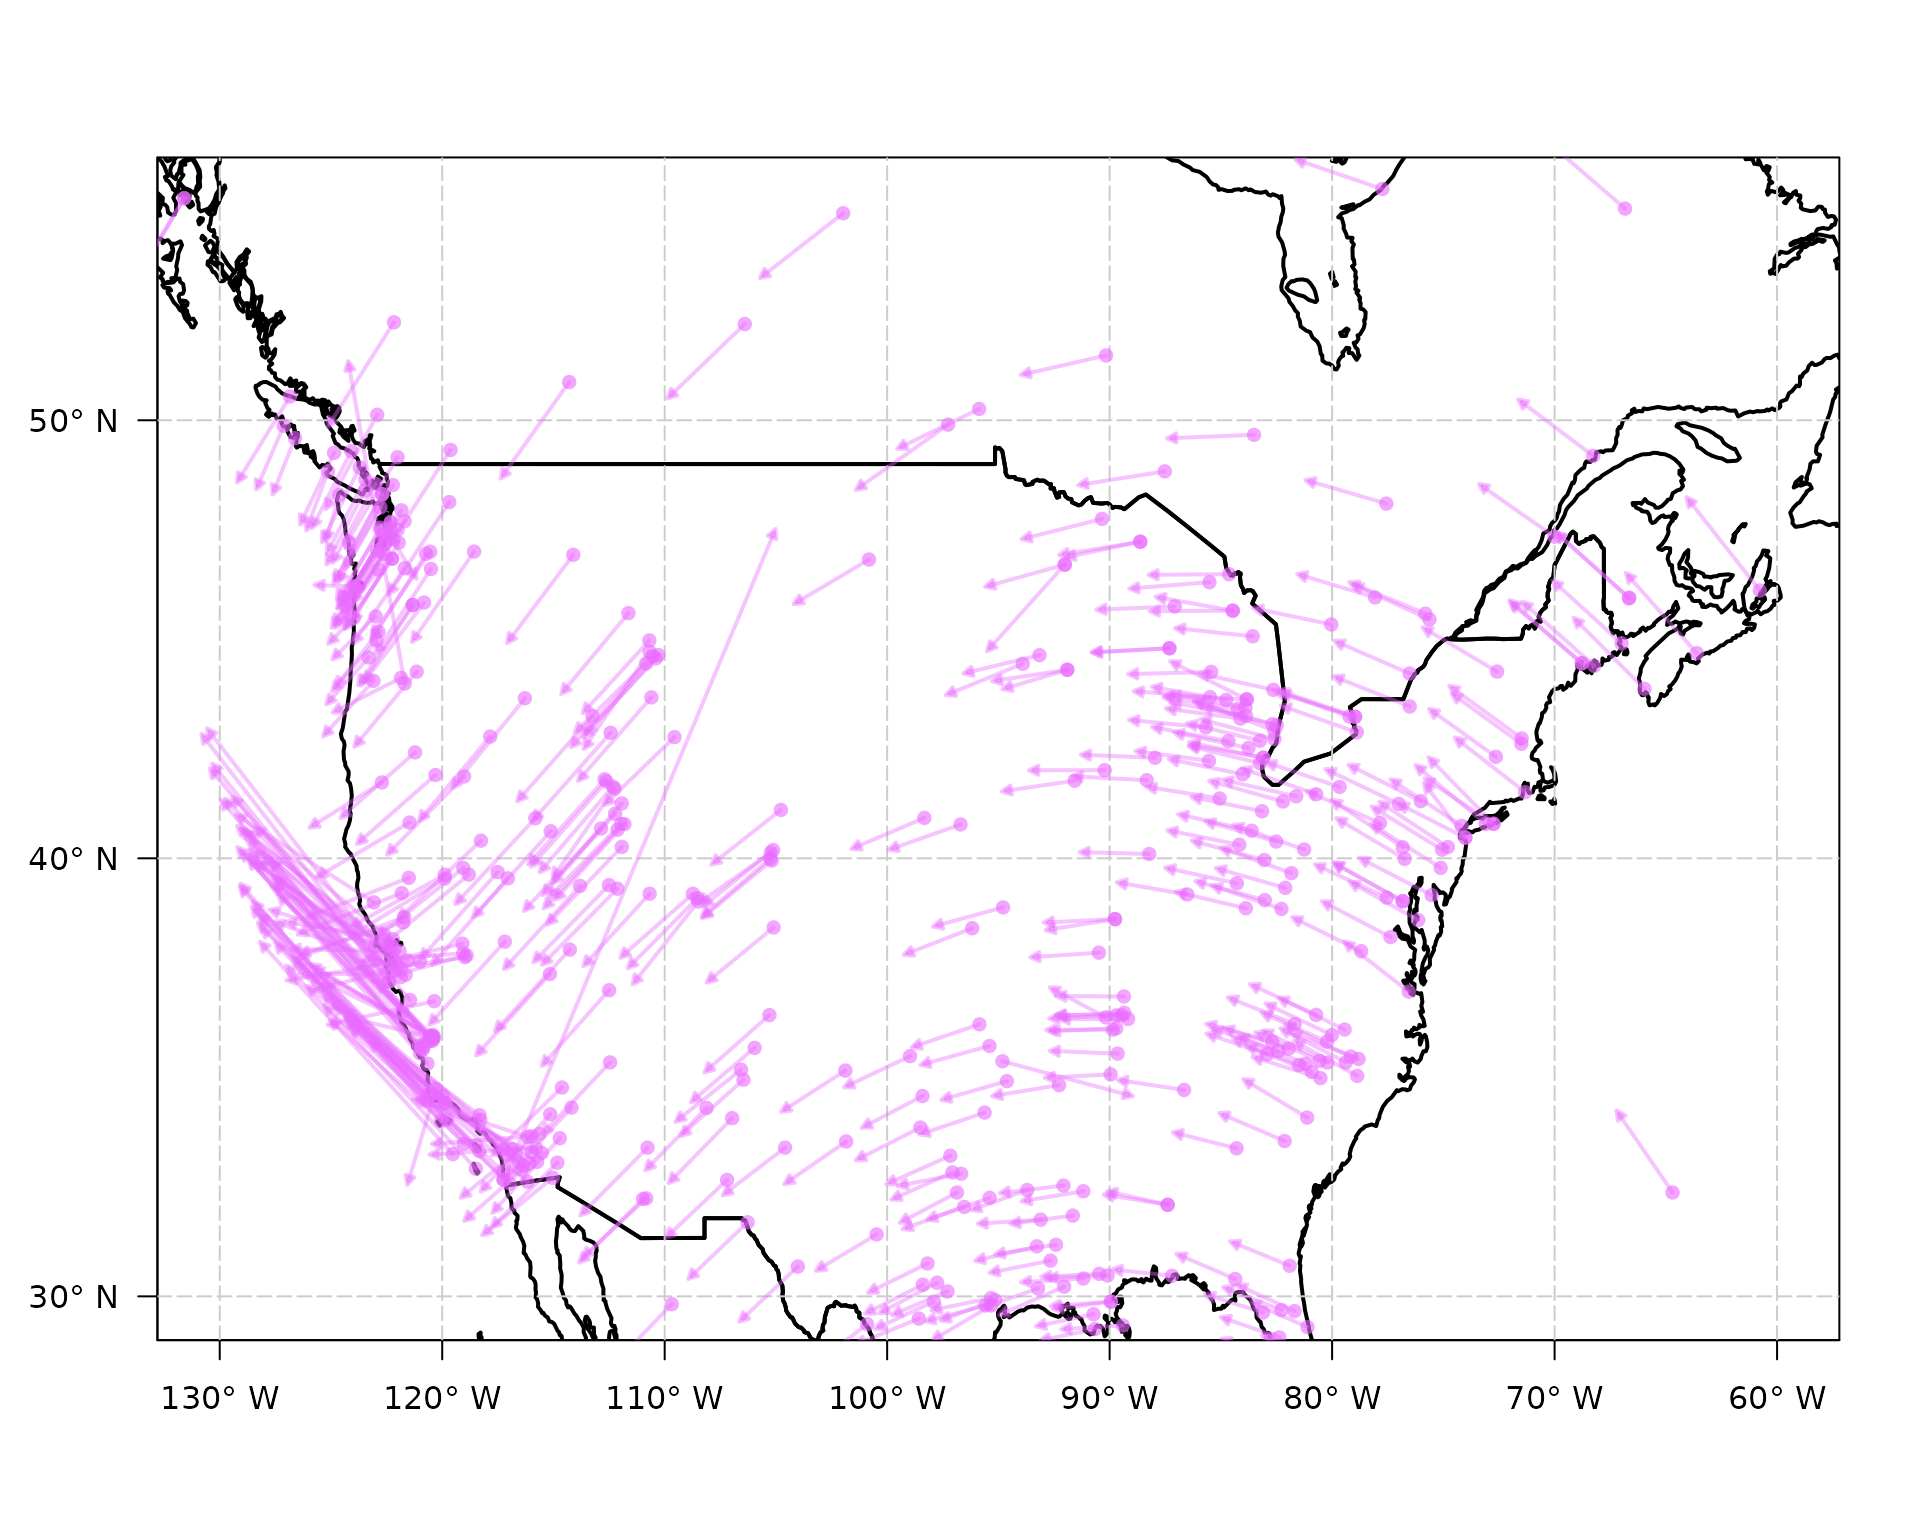
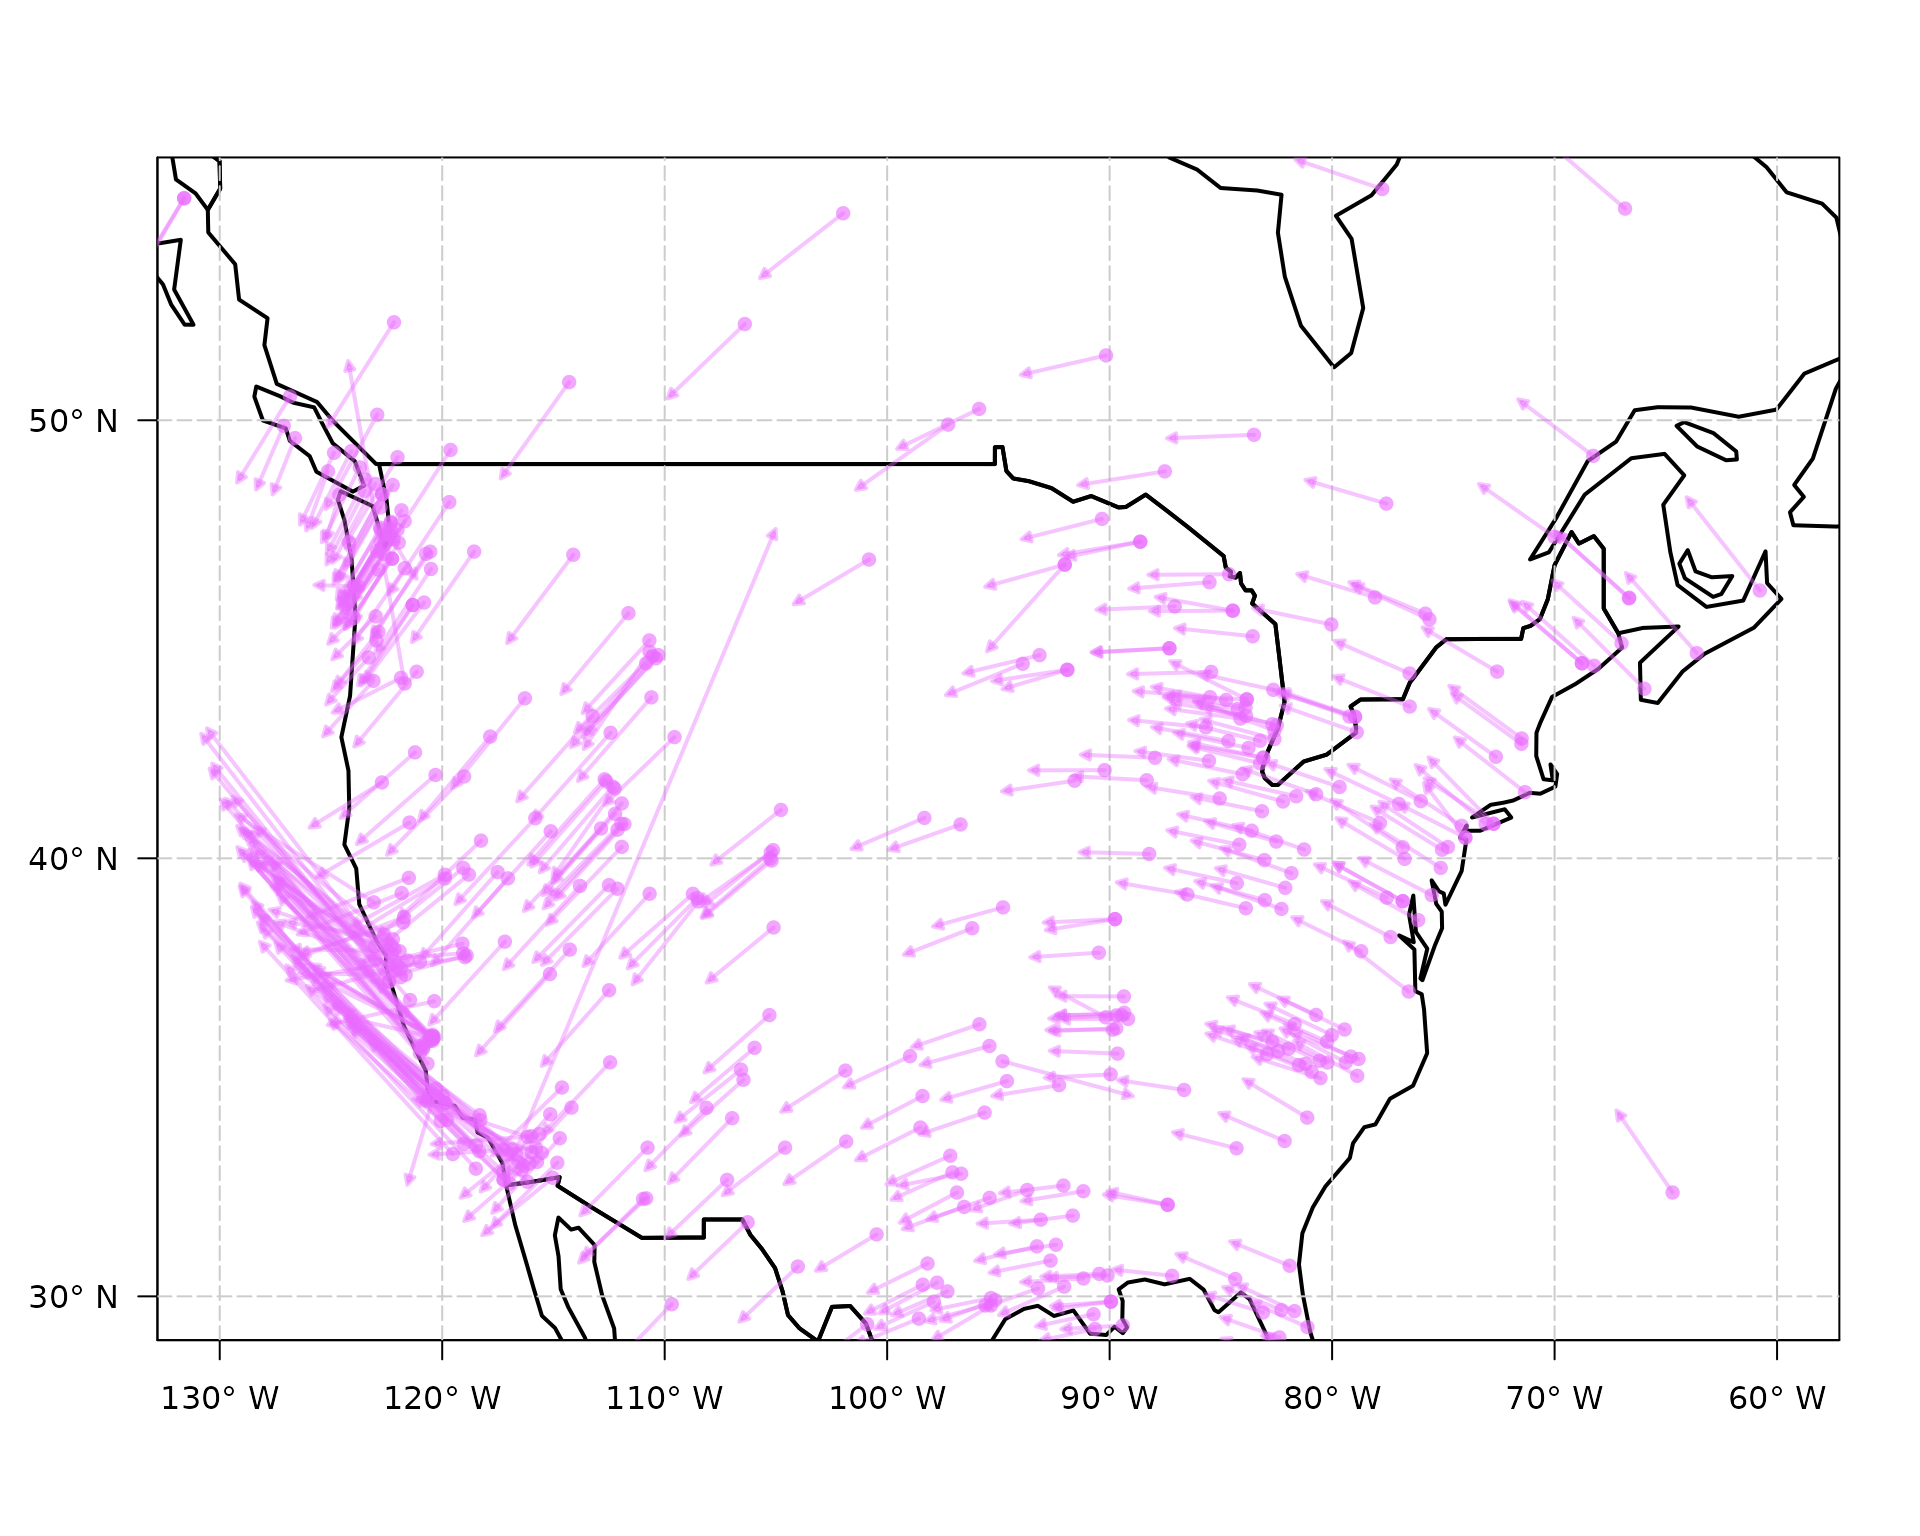
Deploying to gh-pages from @ SMAC-Group/gmwmx2@fe2c7bd1092e17fb48ce71e2e3fbbb6239975855 🚀

diff --git a/articles/plot_large_network.html b/articles/plot_large_network.html
@@ -139,9 +139,7 @@ years of daily data.</p>
 <span>  <span class="kw"><a href="https://rdrr.io/r/base/function.html" class="external-link">return</a></span><span class="op">(</span><span class="va">transparent_colors</span><span class="op">)</span></span>
 <span><span class="op">}</span></span></code></pre></div>
 <div class="sourceCode" id="cb6"><pre class="downlit sourceCode r">
-<code class="sourceCode R"><span><span class="va">tmp</span> <span class="op">&lt;-</span> <span class="fu"><a href="https://rdrr.io/r/base/tempfile.html" class="external-link">tempdir</a></span><span class="op">(</span><span class="op">)</span></span>
-<span><span class="va">world</span> <span class="op">&lt;-</span> <span class="fu">geodata</span><span class="fu">::</span><span class="fu"><a href="https://rdrr.io/pkg/geodata/man/world.html" class="external-link">world</a></span><span class="op">(</span>path <span class="op">=</span> <span class="va">tmp</span><span class="op">)</span></span>
-<span><span class="va">countries_sf</span> <span class="op">&lt;-</span> <span class="fu">sf</span><span class="fu">::</span><span class="fu"><a href="https://r-spatial.github.io/sf/reference/st_as_sf.html" class="external-link">st_as_sf</a></span><span class="op">(</span><span class="va">world</span><span class="op">)</span></span></code></pre></div>
+<code class="sourceCode R"><span><span class="va">countries_sf</span> <span class="op">&lt;-</span> <span class="fu">rnaturalearth</span><span class="fu">::</span><span class="fu"><a href="https://docs.ropensci.org/rnaturalearth/reference/ne_countries.html" class="external-link">ne_countries</a></span><span class="op">(</span><span class="op">)</span></span></code></pre></div>
 </div>
 <div class="section level2">
 <h2 id="plot-estimated-northeast-velocities-for-all-estimated-stations">Plot estimated North/East velocities for all estimated stations<a class="anchor" aria-label="anchor" href="#plot-estimated-northeast-velocities-for-all-estimated-stations"></a>
@@ -266,9 +264,7 @@ years of daily data.</p>
 <span><span class="fu"><a href="https://rdrr.io/r/graphics/axis.html" class="external-link">axis</a></span><span class="op">(</span>side <span class="op">=</span> <span class="fl">1</span>, at <span class="op">=</span> <span class="fu"><a href="https://rdrr.io/r/base/seq.html" class="external-link">seq</a></span><span class="op">(</span><span class="op">-</span><span class="fl">180</span>, <span class="fl">180</span>, by <span class="op">=</span> <span class="fl">10</span><span class="op">)</span>, labels <span class="op">=</span> <span class="va">lon_labels</span><span class="op">)</span></span>
 <span><span class="fu"><a href="https://rdrr.io/r/graphics/axis.html" class="external-link">axis</a></span><span class="op">(</span>side <span class="op">=</span> <span class="fl">2</span>, at <span class="op">=</span> <span class="fu"><a href="https://rdrr.io/r/base/seq.html" class="external-link">seq</a></span><span class="op">(</span><span class="op">-</span><span class="fl">90</span>, <span class="fl">90</span>, by <span class="op">=</span> <span class="fl">10</span><span class="op">)</span>, labels <span class="op">=</span> <span class="va">lat_labels</span>, las <span class="op">=</span> <span class="fl">1</span><span class="op">)</span></span>
 <span></span>
-<span><span class="va">tmp</span> <span class="op">&lt;-</span> <span class="fu"><a href="https://rdrr.io/r/base/tempfile.html" class="external-link">tempdir</a></span><span class="op">(</span><span class="op">)</span></span>
-<span><span class="va">world</span> <span class="op">&lt;-</span> <span class="fu">geodata</span><span class="fu">::</span><span class="fu"><a href="https://rdrr.io/pkg/geodata/man/world.html" class="external-link">world</a></span><span class="op">(</span>path <span class="op">=</span> <span class="va">tmp</span><span class="op">)</span></span>
-<span><span class="va">countries_sf</span> <span class="op">&lt;-</span> <span class="fu"><a href="https://r-spatial.github.io/sf/reference/st_as_sf.html" class="external-link">st_as_sf</a></span><span class="op">(</span><span class="va">world</span><span class="op">)</span></span>
+<span></span>
 <span><span class="fu"><a href="https://rdrr.io/r/base/plot.html" class="external-link">plot</a></span><span class="op">(</span><span class="va">countries_sf</span><span class="op">$</span><span class="va">geometry</span>, add <span class="op">=</span> <span class="cn">TRUE</span>, border <span class="op">=</span> <span class="st">"black"</span>, lwd <span class="op">=</span> <span class="fl">2</span><span class="op">)</span></span>
 <span></span>
 <span><span class="co"># # add axis</span></span>

diff --git a/reference/summary.fit_gnss_ts_ngl.html b/reference/summary.fit_gnss_ts_ngl.html
@@ -127,7 +127,7 @@
 <span class="r-out co"><span class="r-pr">#&gt;</span>  P(Z_{i+1} = 1 | Z_{i} = 0): 1.00000000</span>
 <span class="r-out co"><span class="r-pr">#&gt;</span>  \hat{E[Z]}: 0.99923225</span>
 <span class="r-out co"><span class="r-pr">#&gt;</span> -------------------------------------------------------------</span>
-<span class="r-out co"><span class="r-pr">#&gt;</span> Running time: 0.33 seconds</span>
+<span class="r-out co"><span class="r-pr">#&gt;</span> Running time: 0.34 seconds</span>
 <span class="r-out co"><span class="r-pr">#&gt;</span> -------------------------------------------------------------</span>
 <span class="r-in"><span><span class="fu"><a href="https://rdrr.io/r/base/summary.html" class="external-link">summary</a></span><span class="op">(</span><span class="va">fit1</span>, scale_parameters <span class="op">=</span> <span class="cn">TRUE</span><span class="op">)</span></span></span>
 <span class="r-out co"><span class="r-pr">#&gt;</span> Summary of Estimated Model</span>
@@ -156,7 +156,7 @@
 <span class="r-out co"><span class="r-pr">#&gt;</span>  P(Z_{i+1} = 1 | Z_{i} = 0): 1.00000000</span>
 <span class="r-out co"><span class="r-pr">#&gt;</span>  \hat{E[Z]}: 0.99923225</span>
 <span class="r-out co"><span class="r-pr">#&gt;</span> -------------------------------------------------------------</span>
-<span class="r-out co"><span class="r-pr">#&gt;</span> Running time: 0.33 seconds</span>
+<span class="r-out co"><span class="r-pr">#&gt;</span> Running time: 0.34 seconds</span>
 <span class="r-out co"><span class="r-pr">#&gt;</span> -------------------------------------------------------------</span>
 <span class="r-in"><span><span class="va">fit2</span> <span class="op">&lt;-</span> <span class="fu"><a href="gmwmx2.html">gmwmx2</a></span><span class="op">(</span><span class="va">x</span>, n_seasonal <span class="op">=</span> <span class="fl">2</span>, component <span class="op">=</span> <span class="st">"N"</span>, stochastic_model <span class="op">=</span> <span class="st">"wn + fl"</span><span class="op">)</span></span></span>
 <span class="r-in"><span><span class="fu"><a href="https://rdrr.io/r/base/summary.html" class="external-link">summary</a></span><span class="op">(</span><span class="va">fit2</span><span class="op">)</span></span></span>

diff --git a/articles/fit_model.html b/articles/fit_model.html
@@ -520,7 +520,7 @@ specific component (North, East or Vertical) of one station.</p>
 <span><span class="co">##  P(Z_{i+1} = 1 | Z_{i} = 0): 0.31578947</span></span>
 <span><span class="co">##  \hat{E[Z]}: 0.99122807</span></span>
 <span><span class="co">## -------------------------------------------------------------</span></span>
-<span><span class="co">## Running time: 0.74 seconds</span></span>
+<span><span class="co">## Running time: 0.75 seconds</span></span>
 <span><span class="co">## -------------------------------------------------------------</span></span></code></pre>
 <p>By default, the estimated parameters are provided in m/day, we can
 optionally scale the estimated functional parameters so that they are
@@ -569,7 +569,7 @@ returned in m/year with the argument <code>scale_parameters</code>.</p>
 <span><span class="co">##  P(Z_{i+1} = 1 | Z_{i} = 0): 0.31578947</span></span>
 <span><span class="co">##  \hat{E[Z]}: 0.99122807</span></span>
 <span><span class="co">## -------------------------------------------------------------</span></span>
-<span><span class="co">## Running time: 0.74 seconds</span></span>
+<span><span class="co">## Running time: 0.75 seconds</span></span>
 <span><span class="co">## -------------------------------------------------------------</span></span></code></pre>
 </div>
 <div class="section level2">
@@ -623,7 +623,7 @@ returned in m/year with the argument <code>scale_parameters</code>.</p>
 <span><span class="co">##  P(Z_{i+1} = 1 | Z_{i} = 0): 0.31578947</span></span>
 <span><span class="co">##  \hat{E[Z]}: 0.99122807</span></span>
 <span><span class="co">## -------------------------------------------------------------</span></span>
-<span><span class="co">## Running time: 0.83 seconds</span></span>
+<span><span class="co">## Running time: 0.84 seconds</span></span>
 <span><span class="co">## -------------------------------------------------------------</span></span></code></pre>
 <div class="sourceCode" id="cb14"><pre class="downlit sourceCode r">
 <code class="sourceCode R"><span><span class="fu"><a href="https://rdrr.io/r/base/plot.html" class="external-link">plot</a></span><span class="op">(</span><span class="va">fit2</span><span class="op">)</span></span></code></pre></div>
